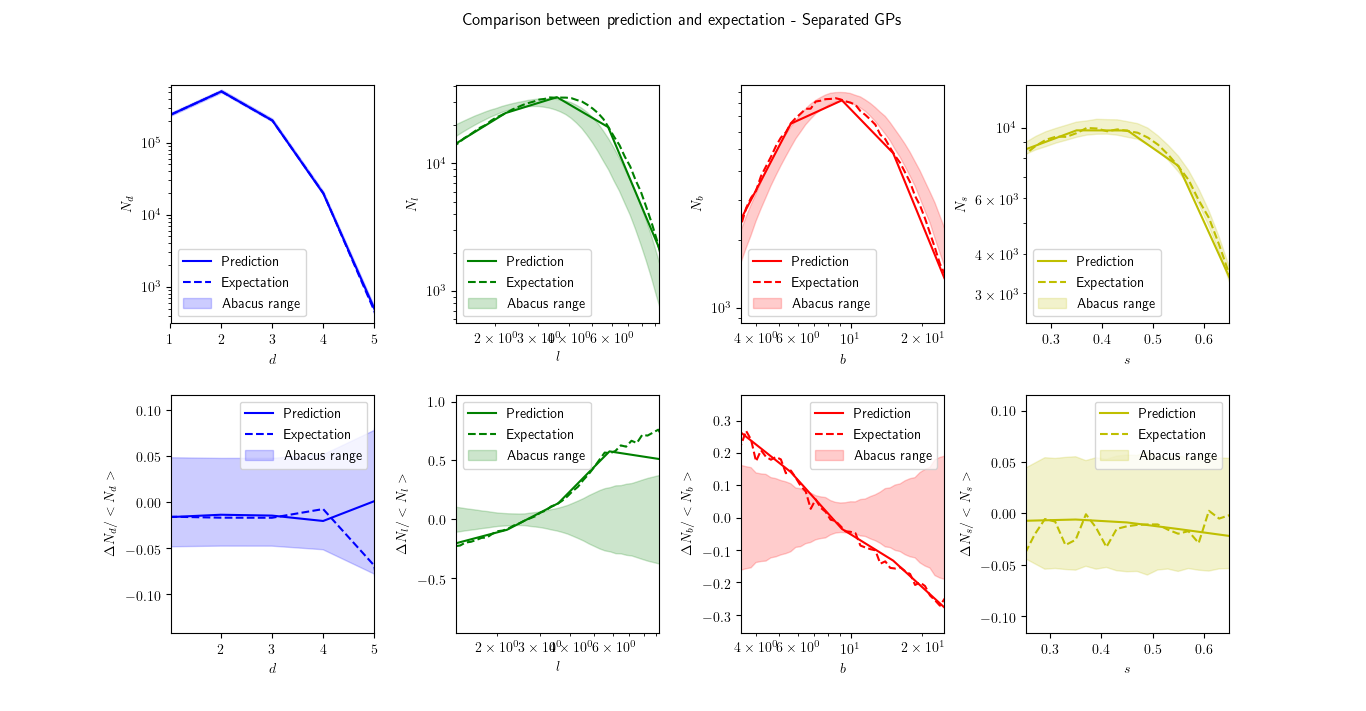
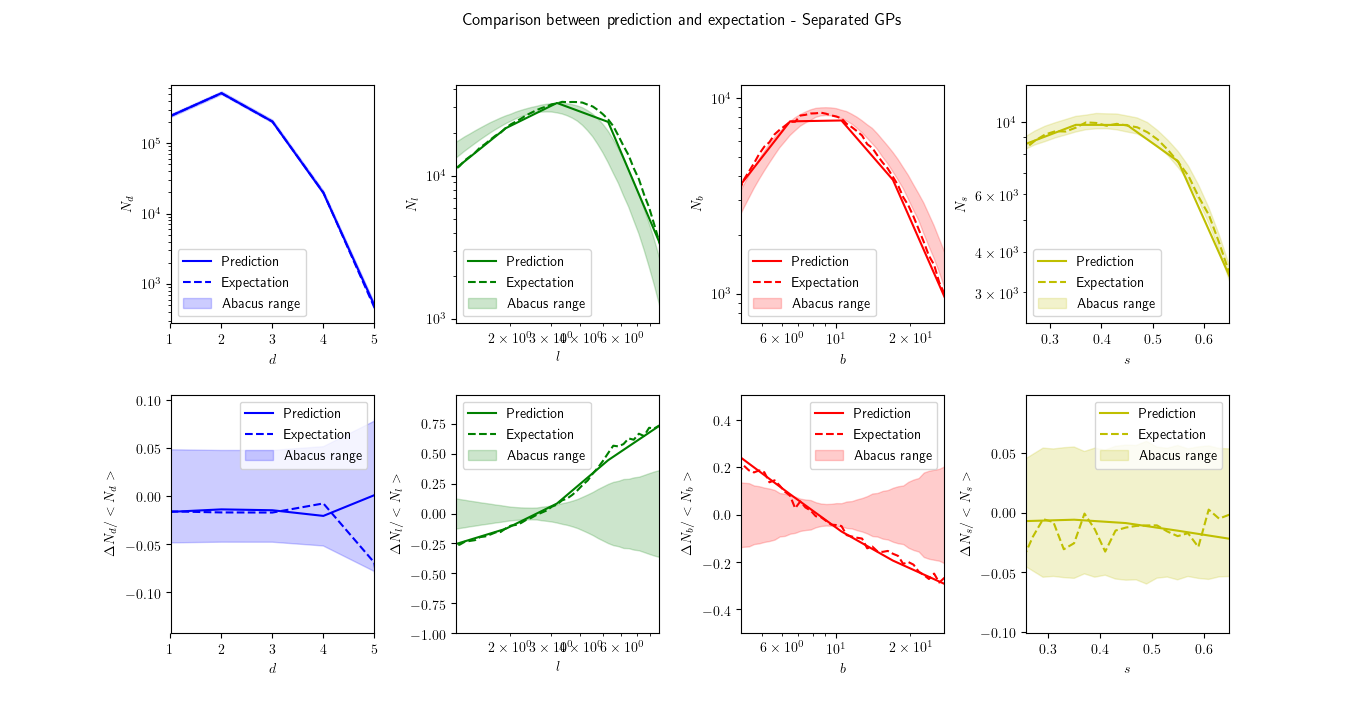
Added Test_chi2 to GP tools

diff --git a/GP_tools.py b/GP_tools.py
@@ -84,14 +84,16 @@ class GP():
             
             self.Models = [gp]
     
-    def change_kernels(self, Stats, New_kernels):
+    def change_kernels(self, New_kernels, Stats = None):
         if (self.type_kernel == "Separated"):
             for i in range(len(Stats)):
                 self.Kernels[Stats[i]] = New_kernels[i]
             self.make_models()
         
         elif (self.type_kernel == "Coregionalized"):
-            print("Warning : change_kernels is not available for coregionalized models, so this call will be ignored")
+            kernel_input = New_kernels[0]
+            kernel = GPy.util.multioutput.ICM(input_dim = 6, num_outputs = 4, W_rank = 4, kernel = kernel_input) # rank 4 since there are 4
+            self.Kernels[0] = kernel
     
     def optimize_models(self, optimizer = 'lbfgsb'):
         if (self.type_kernel == "Separated"):
@@ -194,7 +196,7 @@ class GP():
                 Cov.append(C)
             return(X_predicted, Y_predicted, Cov)
     
-    def test(self, X_test, Y_test):
+    def test_rms(self, X_test, Y_test):
         if (self.type_kernel == "Separated"):
             X_d_test, X_l_test, X_b_test, X_s_test = X_test
             Y_d_test, Y_l_test, Y_b_test, Y_s_test = Y_test
@@ -223,7 +225,127 @@ class GP():
             return(rms)
         
         elif (self.type_kernel == "Coregionalized"):
-            return("Error : test has not yet been written for coregionalized kernels")
+            X_d_test, X_l_test, X_b_test, X_s_test = X_test
+            Y_d_test, Y_l_test, Y_b_test, Y_s_test = Y_test
+            
+            s = 0
+            for i in range(np.shape(X_d_test)[0]):
+                X_d_new = np.reshape(X_d_test[i], (1, 6))
+                X_d_new = np.concatenate((X_d_new, np.array([[0]])), 1)
+                Metadata = np.asarray([0])
+                
+                y_d_predicted, C = self.Models[0].predict(X_d_new, Y_metadata={'output_index' : Metadata}, full_cov = True)
+                y_d_expected = Y_d_test[i][0]
+                
+                s += (y_d_predicted - y_d_expected)**2
+            for i in range(np.shape(X_l_test)[0]):
+                X_l_new = np.reshape(X_l_test[i], (1, 6))
+                X_l_new = np.concatenate((X_l_new, np.array([[1]])), 1)
+                Metadata = np.asarray([1])
+                
+                y_l_predicted, C = self.Models[0].predict(X_l_new, Y_metadata={'output_index' : Metadata}, full_cov = True)
+                y_l_expected = Y_l_test[i][0]
+                
+                s += (y_l_predicted - y_l_expected)**2
+            for i in range(np.shape(X_b_test)[0]):
+                X_b_new = np.reshape(X_b_test[i], (1, 6))
+                X_b_new = np.concatenate((X_b_new, np.array([[2]])), 1)
+                Metadata = np.asarray([2])
+                
+                y_b_predicted, C = self.Models[0].predict(X_b_new, Y_metadata={'output_index' : Metadata}, full_cov = True)
+                y_b_expected = Y_b_test[i][0]
+                
+                s += (y_b_predicted - y_b_expected)**2
+            for i in range(np.shape(X_s_test)[0]):
+                X_s_new = np.reshape(X_s_test[i], (1, 6))
+                X_s_new = np.concatenate((X_s_new, np.array([[3]])), 1)
+                Metadata = np.asarray([3])
+                
+                y_s_predicted, C = self.Models[0].predict(X_s_new, Y_metadata={'output_index' : Metadata}, full_cov = True)
+                y_s_expected = Y_s_test[i][0]
+                
+                s += (y_s_predicted - y_s_expected)**2
+            
+            ms = s / (np.shape(X_d_test)[0] + np.shape(X_l_test)[0] + np.shape(X_b_test)[0] + np.shape(X_s_test)[0])
+            rms = np.sqrt(ms)
+            return(rms)
+    
+    def test_chi2(self, X_test, Y_test):
+        if (self.type_kernel == "Separated"):
+            X_d_test, X_l_test, X_b_test, X_s_test = X_test
+            Y_d_test, Y_l_test, Y_b_test, Y_s_test = Y_test
+            
+            s = 0
+            for i in range(np.shape(X_d_test)[0]):
+                X_d_new = np.reshape(X_d_test[i], (1, 6))
+                X_l_new = np.reshape(X_l_test[i], (1, 6))
+                X_b_new = np.reshape(X_b_test[i], (1, 6))
+                X_s_new = np.reshape(X_s_test[i], (1, 6))
+                
+                y_d_predicted, C_d = (self.Models[0].predict(X_d_new, full_cov = True))
+                y_l_predicted, C_l = (self.Models[1].predict(X_l_new, full_cov = True))
+                y_b_predicted, C_b = (self.Models[2].predict(X_b_new, full_cov = True))
+                y_s_predicted, C_s = (self.Models[3].predict(X_s_new, full_cov = True))
+                
+                y_d_expected = Y_d_test[i][0]
+                y_l_expected = Y_l_test[i][0]
+                y_b_expected = Y_b_test[i][0]
+                y_s_expected = Y_s_test[i][0]
+                
+                s += (y_d_predicted - y_d_expected)**2 / (C_d + self.Models[0].Gaussian_noise.variance**2)
+                s += (y_l_predicted - y_l_expected)**2 / (C_b + self.Models[1].Gaussian_noise.variance**2)
+                s += (y_b_predicted - y_b_expected)**2 / (C_l + self.Models[2].Gaussian_noise.variance**2)
+                s += (y_s_predicted - y_s_expected)**2 / (C_s + self.Models[3].Gaussian_noise.variance**2)
+            
+            ms = s / (4 * np.shape(X_d_test)[0])
+            chi_2 = np.sqrt(ms)
+            return(chi_2)
+        
+        elif (self.type_kernel == "Coregionalized"):
+            X_d_test, X_l_test, X_b_test, X_s_test = X_test
+            Y_d_test, Y_l_test, Y_b_test, Y_s_test = Y_test
+            
+            s = 0
+            for i in range(np.shape(X_d_test)[0]):
+                X_d_new = np.reshape(X_d_test[i], (1, 6))
+                X_d_new = np.concatenate((X_d_new, np.array([[0]])), 1)
+                Metadata = np.asarray([0])
+                
+                y_d_predicted, C = self.Models[0].predict(X_d_new, Y_metadata={'output_index' : Metadata}, full_cov = True)
+                y_d_expected = Y_d_test[i][0]
+                
+                s += (y_d_predicted - y_d_expected)**2 / (C + self.Models[0].mixed_noise.Gaussian_noise_0.variance**2)
+            for i in range(np.shape(X_l_test)[0]):
+                X_l_new = np.reshape(X_l_test[i], (1, 6))
+                X_l_new = np.concatenate((X_l_new, np.array([[1]])), 1)
+                Metadata = np.asarray([1])
+                
+                y_l_predicted, C = self.Models[0].predict(X_l_new, Y_metadata={'output_index' : Metadata}, full_cov = True)
+                y_l_expected = Y_l_test[i][0]
+                
+                s += (y_l_predicted - y_l_expected)**2 / (C + self.Models[0].mixed_noise.Gaussian_noise_1.variance**2)
+            for i in range(np.shape(X_b_test)[0]):
+                X_b_new = np.reshape(X_b_test[i], (1, 6))
+                X_b_new = np.concatenate((X_b_new, np.array([[2]])), 1)
+                Metadata = np.asarray([2])
+                
+                y_b_predicted, C = self.Models[0].predict(X_b_new, Y_metadata={'output_index' : Metadata}, full_cov = True)
+                y_b_expected = Y_b_test[i][0]
+                
+                s += (y_b_predicted - y_b_expected)**2 / (C + self.Models[0].mixed_noise.Gaussian_noise_2.variance**2)
+            for i in range(np.shape(X_s_test)[0]):
+                X_s_new = np.reshape(X_s_test[i], (1, 6))
+                X_s_new = np.concatenate((X_s_new, np.array([[3]])), 1)
+                Metadata = np.asarray([3])
+                
+                y_s_predicted, C = self.Models[0].predict(X_s_new, Y_metadata={'output_index' : Metadata}, full_cov = True)
+                y_s_expected = Y_s_test[i][0]
+                
+                s += (y_s_predicted - y_s_expected)**2 / (C + self.Models[0].mixed_noise.Gaussian_noise_3.variance**2)
+            
+            ms = s / (np.shape(X_d_test)[0] + np.shape(X_l_test)[0] + np.shape(X_b_test)[0] + np.shape(X_s_test)[0])
+            chi_2 = np.sqrt(ms)
+            return(chi_2)
     
     def chi_2(self, Y_model, Noise_model, Y_observation, Noise_observation):
         if (self.type_kernel == "Separated"):

diff --git a/compare_Abacus_MSTs.py b/compare_Abacus_MSTs.py
@@ -71,9 +71,9 @@ for j in range(4):
                 subplot.plot(dict['X_d'][0], Mean, 'b')
                 
             else:
-                subplot.set_ylabel('$\Delta N_{d} / <N_{d}>$')
+                subplot.set_ylabel('$\Delta N_{d} / \sqrt{<N_{d}}>$')
                 subplot.set_yscale('log')
-                subplot.set_ylim(0.01, 5)
+                subplot.set_ylim(0.1, 50)
                 
                 Mean = dict['Y_d'][0]
                 Zeros = np.asarray([0 for k in range(np.shape(dict['Y_d'][0])[0])])
@@ -88,8 +88,8 @@ for j in range(4):
                     Mean = Mean_new.copy()
                     Std = Std_new.copy()
                 
-                subplot.fill_between(x = dict['X_d'][0], y1 = Zeros, y2 = 3 * Std / Mean, color = 'b', alpha = 0.2)
-                subplot.errorbar(x = dict['X_d'][0], y = Zeros, yerr = 3 * Std / Mean, fmt = 'o', markersize = 0, ecolor = 'b')
+                subplot.fill_between(x = dict['X_d'][0], y1 = Zeros, y2 = Std / np.sqrt(Mean), color = 'b', alpha = 0.2)
+                subplot.errorbar(x = dict['X_d'][0], y = Zeros, yerr = Std / np.sqrt(Mean), fmt = 'o', markersize = 0, ecolor = 'b')
                 subplot.plot(dict['X_d'][0], Zeros, 'b')
         
         elif (j == 1):
@@ -116,9 +116,9 @@ for j in range(4):
                 subplot.plot(dict['X_l'][0], Mean, 'g')
                 
             else:
-                subplot.set_ylabel('$\Delta N_{l} / <N_{l}>$')
+                subplot.set_ylabel('$\Delta N_{l} / \sqrt{<N_{l}>}$')
                 subplot.set_yscale('log')
-                subplot.set_ylim(0.01, 5)
+                subplot.set_ylim(0.05, 50)
                 
                 Mean = dict['Y_l'][0]
                 Zeros = np.asarray([0 for k in range(np.shape(dict['Y_l'][0])[0])])
@@ -133,8 +133,8 @@ for j in range(4):
                     Mean = Mean_new.copy()
                     Std = Std_new.copy()
                 
-                subplot.fill_between(x = dict['X_l'][0], y1 = Zeros, y2 = 3 * Std / Mean, color = 'g', alpha = 0.2)
-                subplot.errorbar(x = dict['X_l'][0][::5], y = Zeros[::5], yerr = 3 * (Std / Mean)[::5], fmt = 'o', markersize = 0, ecolor = 'g')
+                subplot.fill_between(x = dict['X_l'][0], y1 = Zeros, y2 = Std / np.sqrt(Mean), color = 'g', alpha = 0.2)
+                subplot.errorbar(x = dict['X_l'][0][::5], y = Zeros[::5], yerr = (Std / np.sqrt(Mean))[::5], fmt = 'o', markersize = 0, ecolor = 'g')
                 subplot.plot(dict['X_l'][0], Zeros, 'g')
                 
         elif (j == 2):
@@ -161,9 +161,9 @@ for j in range(4):
                 subplot.plot(dict['X_b'][0], Mean, 'r')
                 
             else:
-                subplot.set_ylabel('$\Delta N_{b} / <N_{b}>$')
+                subplot.set_ylabel('$\Delta N_{b} / \sqrt{<N_{b}>}$')
                 subplot.set_yscale('log')
-                subplot.set_ylim(0.01, 5)
+                subplot.set_ylim(0.05, 50)
                 
                 Mean = dict['Y_b'][0]
                 Zeros = np.asarray([0 for k in range(np.shape(dict['Y_b'][0])[0])])
@@ -178,8 +178,8 @@ for j in range(4):
                     Mean = Mean_new.copy()
                     Std = Std_new.copy()
                 
-                subplot.fill_between(x = dict['X_b'][0], y1 = Zeros, y2 = 3 * Std / Mean, color = 'r', alpha = 0.2)
-                subplot.errorbar(x = dict['X_b'][0][::5], y = Zeros[::5], yerr = 3 * (Std / Mean)[::5], fmt = 'o', markersize = 0, ecolor = 'r')
+                subplot.fill_between(x = dict['X_b'][0], y1 = Zeros, y2 = Std / np.sqrt(Mean), color = 'r', alpha = 0.2)
+                subplot.errorbar(x = dict['X_b'][0][::5], y = Zeros[::5], yerr = (Std / np.sqrt(Mean))[::5], fmt = 'o', markersize = 0, ecolor = 'r')
                 subplot.plot(dict['X_b'][0], Zeros, 'r')
                 
         else:
@@ -205,9 +205,9 @@ for j in range(4):
                 subplot.plot(dict['X_s'][0], Mean, 'y')
                 
             else:
-                subplot.set_ylabel('$\Delta N_{s} / <N_{s}>$')
+                subplot.set_ylabel('$\Delta N_{s} / \sqrt{<N_{s}>}$')
                 subplot.set_yscale('log')
-                subplot.set_ylim(0.01, 5)
+                subplot.set_ylim(0.05, 50)
                 
                 Mean = dict['Y_s'][0]
                 Zeros = np.asarray([0 for k in range(np.shape(dict['Y_s'][0])[0])])
@@ -222,8 +222,8 @@ for j in range(4):
                     Mean = Mean_new.copy()
                     Std = Std_new.copy()
                 
-                subplot.fill_between(x = dict['X_s'][0], y1 = Zeros, y2 = 3 * Std / Mean, color = 'y', alpha = 0.2)
-                subplot.errorbar(x = dict['X_s'][0], y = Zeros, yerr = 3 * Std / Mean, fmt = 'o', markersize = 0, ecolor = 'y')
+                subplot.fill_between(x = dict['X_s'][0], y1 = Zeros, y2 = Std / np.sqrt(Mean), color = 'y', alpha = 0.2)
+                subplot.errorbar(x = dict['X_s'][0], y = Zeros, yerr = Std / np.sqrt(Mean), fmt = 'o', markersize = 0, ecolor = 'y')
                 subplot.plot(dict['X_s'][0], Zeros, 'y')
 
 plt.suptitle("Comparison of all the Abacus MSTs")

diff --git a/find_best_kernel.py b/find_best_kernel.py
@@ -170,7 +170,7 @@ print("starting to evaluate the performances")
 Mean = [[], [], [], []]
 Std = [[], [], [], []]
 
-for i in range(4):
+for i in range(1):
     print("starting to work on MST stat" + str(i))
     
     for j in range(len(Kernels)):
@@ -187,12 +187,12 @@ for i in range(4):
             X_data, Y_data, X_test, Y_test = List_groups[k]
             
             # creating the gaussian process and optimizing it
-            gp = GP.GP(X = X_data, Y = Y_data, N_points_per_simu = [5, 5, 5, 5], Noise = [None, None, None, None], type_kernel = "Separated")
+            gp = GP.GP(X = X_data, Y = Y_data, N_points_per_simu = [5, 5, 5, 5], Noise = [None, None, None, None], type_kernel = "Coregionalized")
             gp.change_kernels(Stats = [i], New_kernels = [kernel])
             gp.optimize_models(optimizer = 'lbfgsb')
             
             # getting the performance of the gaussian process
-            performance_new = gp.test(X_test = X_test, Y_test = Y_test)
+            performance_new = gp.test_chi2(X_test = X_test, Y_test = Y_test)
             
             mean_old = mean
             std_old = std
@@ -213,13 +213,13 @@ print(Kernel_names)
 ## Plotting the results
 print("starting to plot the results")
 
-plt.title("Find best kernel : $s$")
-plt.ylabel("Root Mean Square prediction error")
-plt.errorbar(Kernel_names, Mean[3], Std[3], fmt = 'o', ecolor = 'k')
+plt.title("Find best kernel : Coregionalized")
+plt.ylabel("Performance (a.u.)")
+plt.errorbar(Kernel_names, Mean[0], Std[0], fmt = 'o', ecolor = 'k')
 
 #my_path = os.path.abspath('/home/astro/magnan/Repository_Stage_3A/Figures')
 my_path = os.path.abspath('C:/Users/Nathan/Documents/D - X/C - Stages/Stage 3A/Repository_Stage_3A/Figures')
-my_file = 'Find_best_kernel_s'
+my_file = 'Find_best_kernel_coregionalized'
 my_file = os.path.join(my_path, my_file)
 plt.savefig(my_file)
 plt.show()
